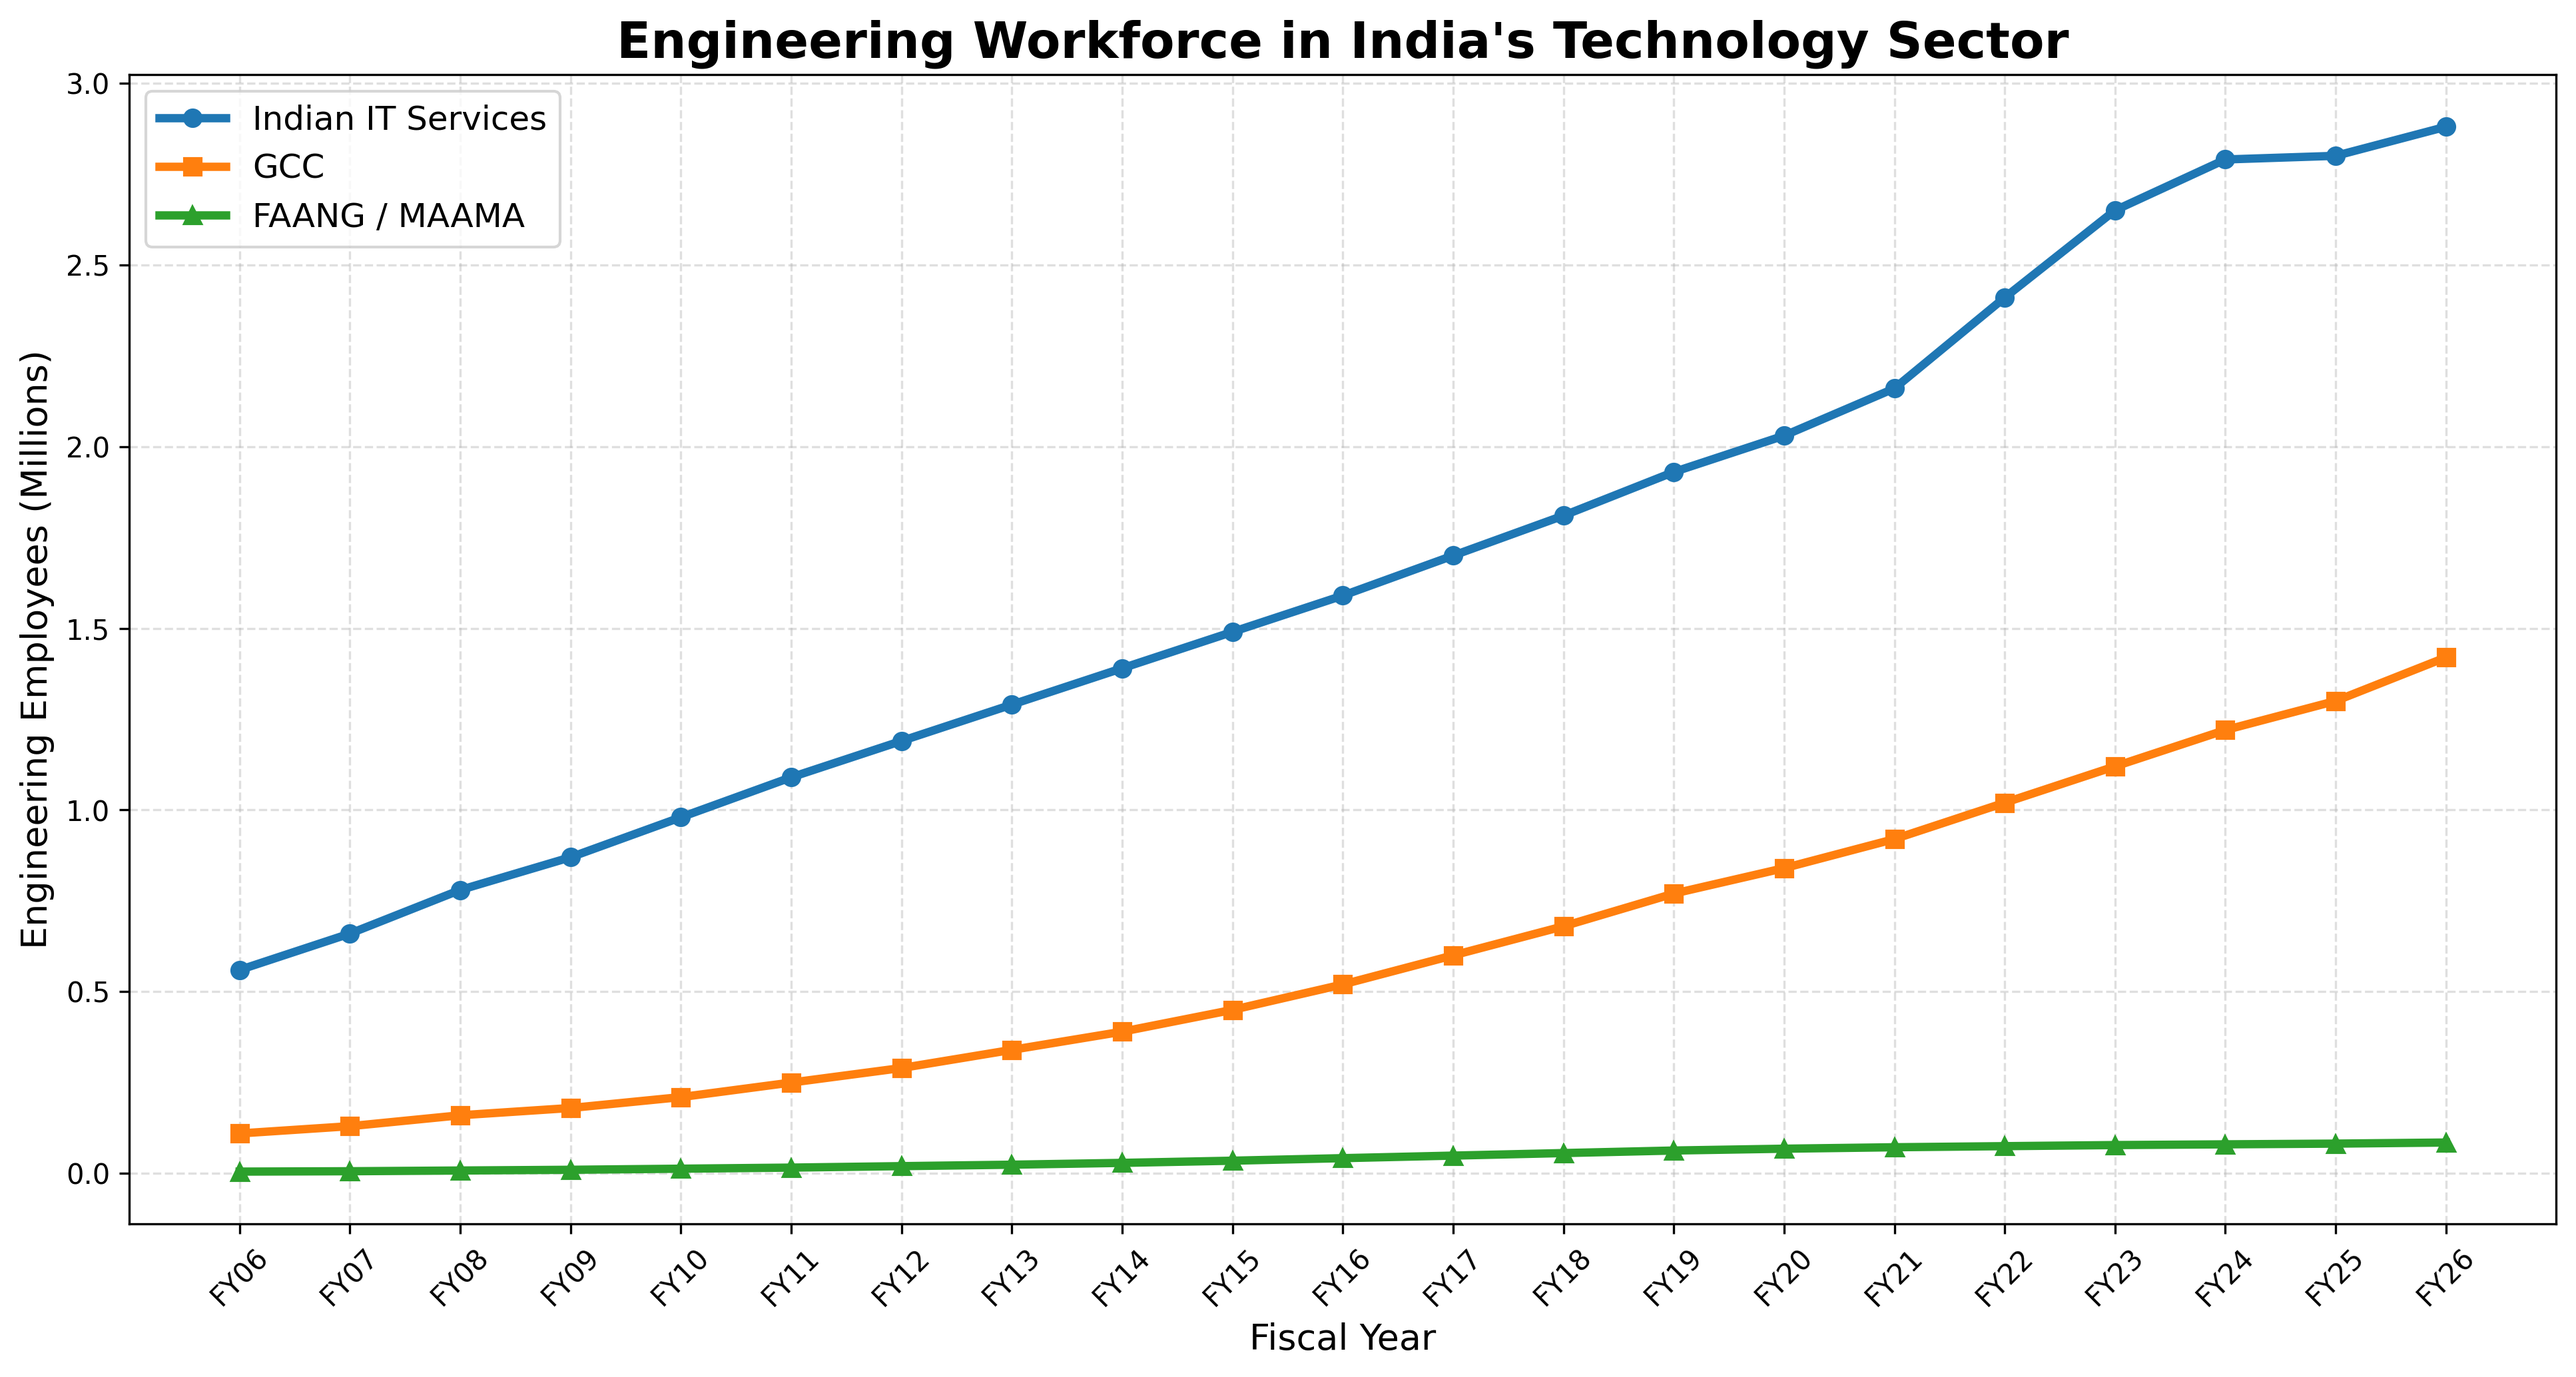
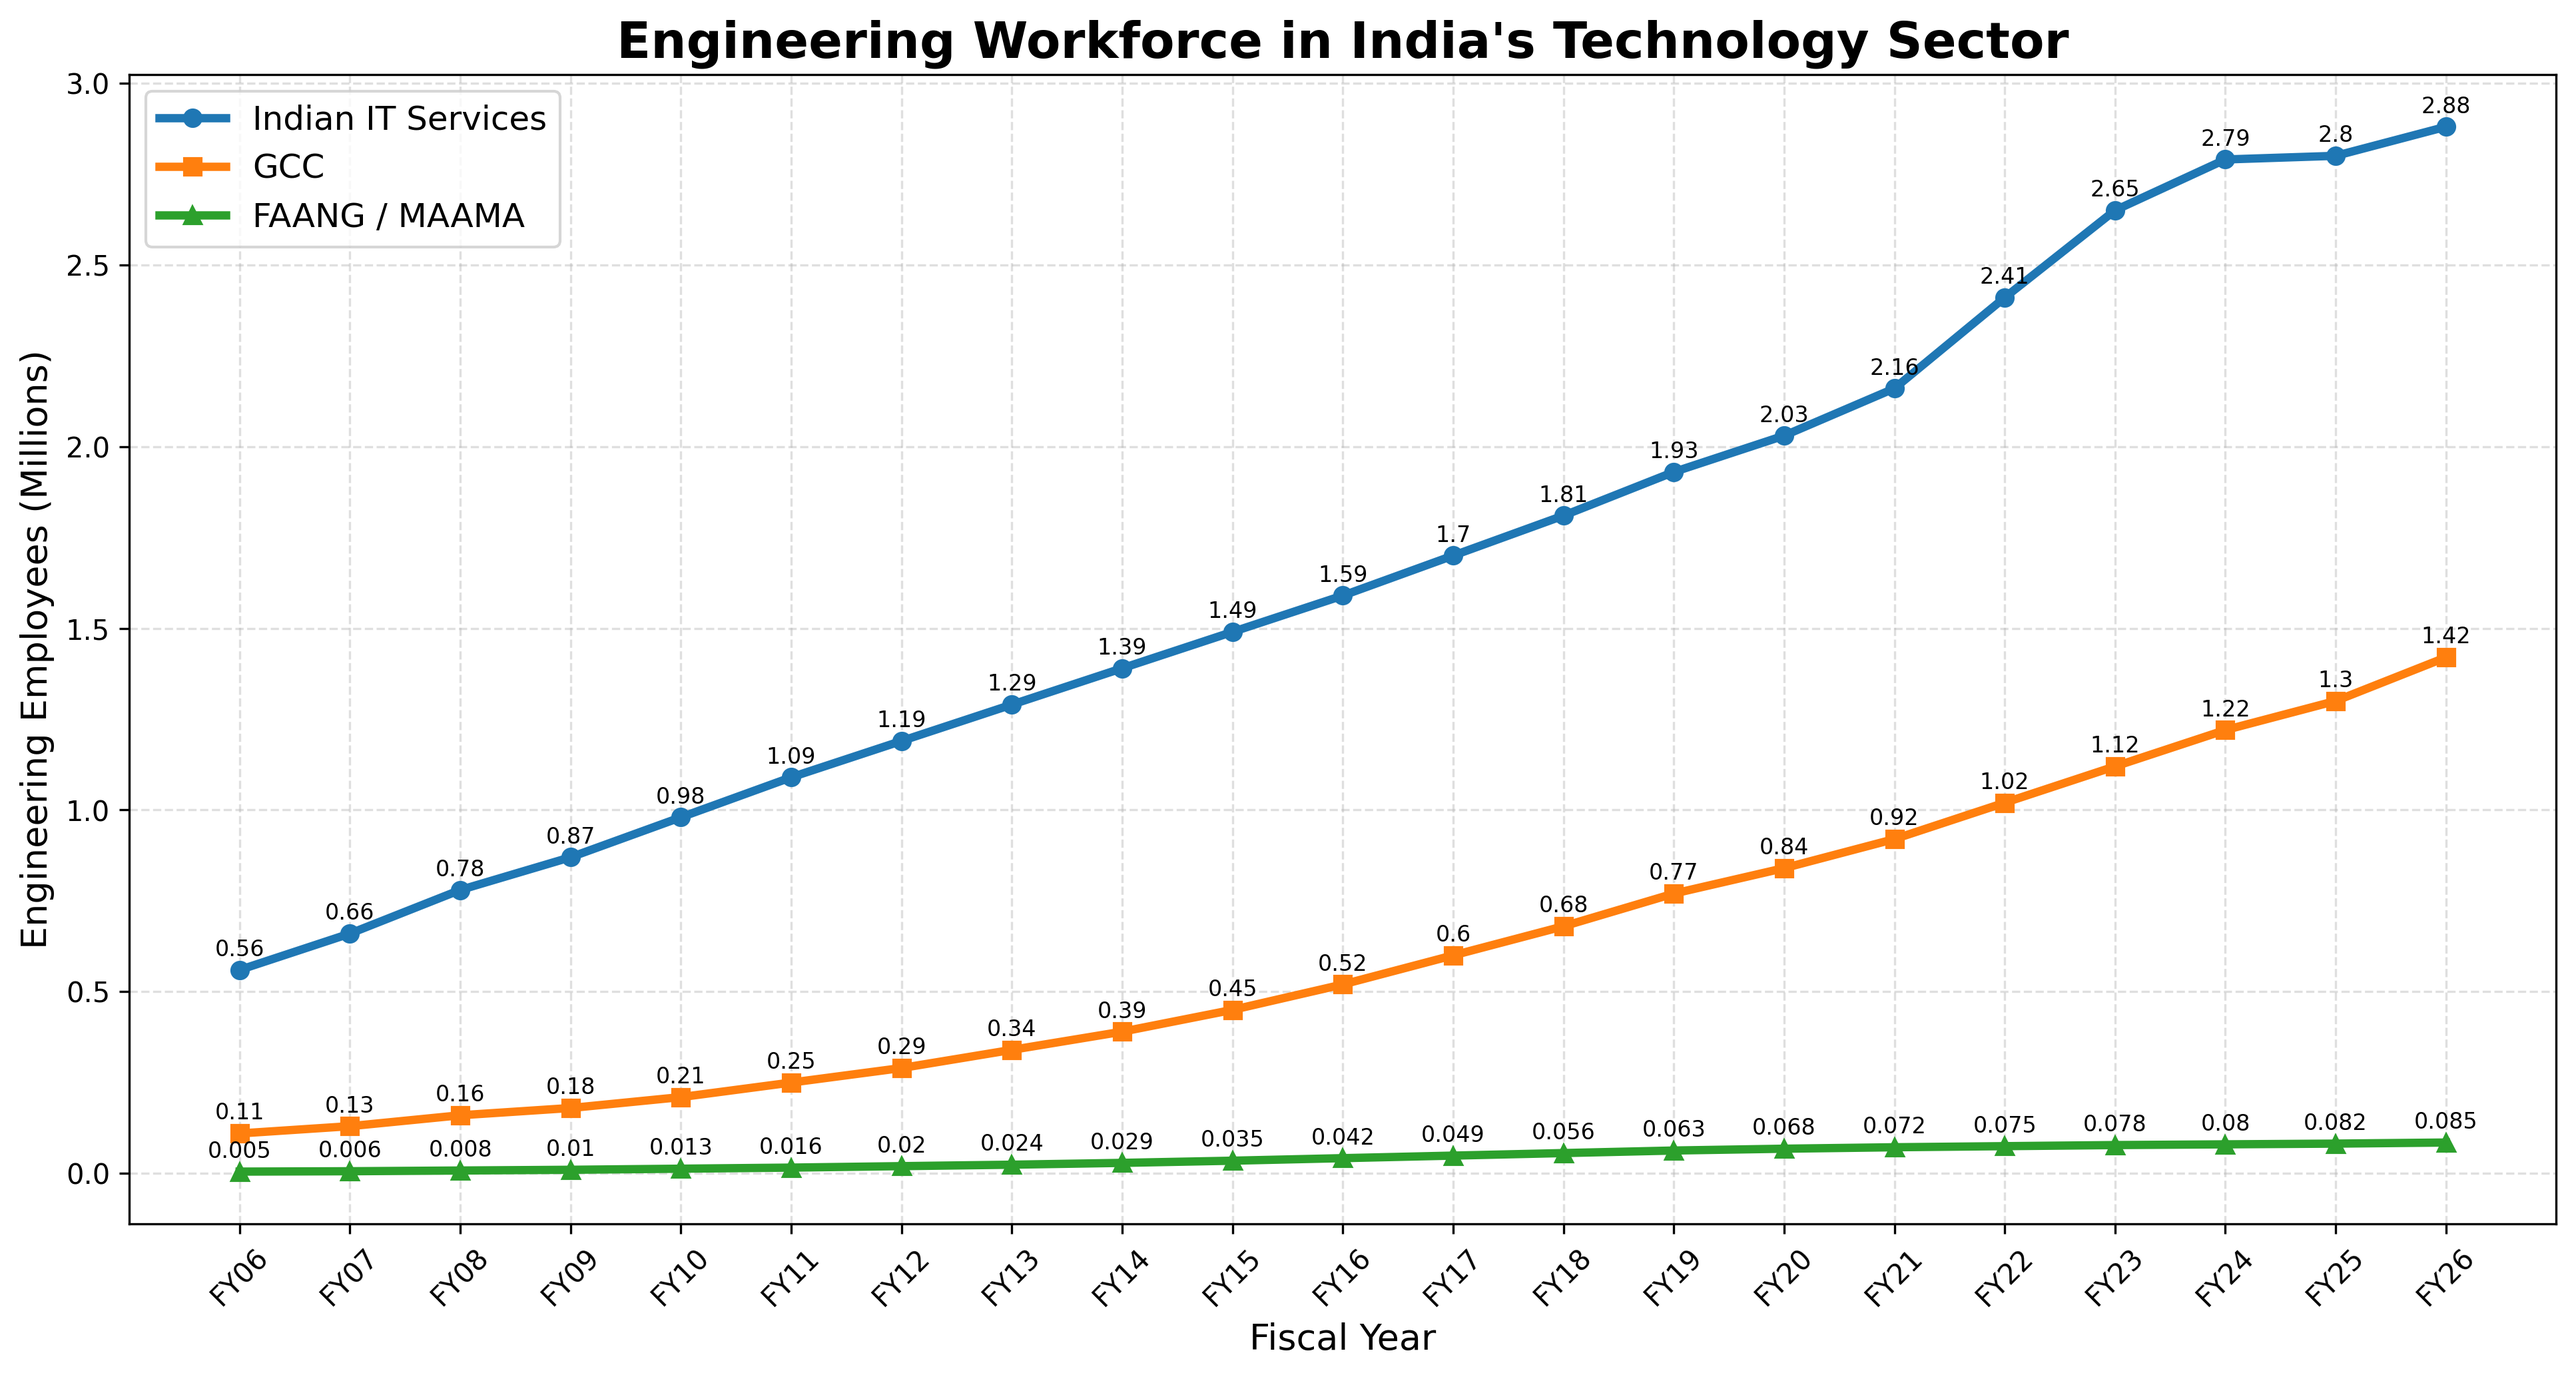
Add README and plot annotations

diff --git a/tech_headcounts.py b/tech_headcounts.py
@@ -60,6 +60,13 @@ plt.plot(
     label='FAANG / MAAMA'
 )
 
+for i, txt in enumerate(it_services):
+    plt.annotate(f"{txt}", (years[i], it_services[i]), textcoords="offset points", xytext=(0,5), ha='center', fontsize=8)
+for i, txt in enumerate(gcc):
+    plt.annotate(f"{txt}", (years[i], gcc[i]), textcoords="offset points", xytext=(0,5), ha='center', fontsize=8)
+for i, txt in enumerate(faang):
+    plt.annotate(f"{txt}", (years[i], faang[i]), textcoords="offset points", xytext=(0,5), ha='center', fontsize=8)
+
 plt.title(
     "Engineering Workforce in India's Technology Sector",
     fontsize=18,

diff --git a/README.md b/README.md
@@ -1,1 +1,29 @@
-# FAANG_vs_GCC_ITServices_in_India_Headcount
+# FAANG vs GCC vs IT Services in India Headcount
+
+This project visualizes the growth of the engineering workforce in India's technology sector over the past two decades, comparing three major segments:
+*   **Indian IT Services**
+*   **Global Capability Centers (GCCs)**
+*   **FAANG / MAAMA Companies**
+
+## Overview
+
+The python script `tech_headcounts.py` contains historical headcount data from FY06 to FY26 (projected) for these three segments and generates a line chart to compare their growth trajectories. 
+
+The visualization highlights the rapid expansion of GCCs and the steady scaling of Indian IT services, as well as the specialized presence of top-tier global tech firms (FAANG/MAAMA) in India.
+
+## Requirements
+
+*   Python 3.x
+*   Matplotlib
+
+## Usage
+
+1.  Ensure you have the required dependencies installed:
+    ```bash
+    pip install matplotlib
+    ```
+2.  Run the script:
+    ```bash
+    python tech_headcounts.py
+    ```
+3.  The script will display the plot and save a high-resolution image to `assets/india_tech_engineering_workforce.png`.
